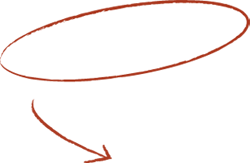
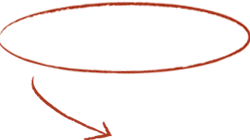
unangled text

Changed region(s): [[0.0, 0.0, 1.0, 0.5429], [0.112, 0.5429, 0.448, 1.0], [0.028, 0.2571, 0.056, 0.2857]]

diff --git a/public/stylesheets/style.css b/public/stylesheets/style.css
@@ -238,11 +238,9 @@ body#applicationbg {
 }
 
 #angled {
-	-webkit-transform: rotate(-12deg); 
-	-moz-transform: rotate(-12deg);
 	position: relative; 
 	left:50px;
-	top:8px;
+	top:17px;
 }
 
 #control_how_often {
